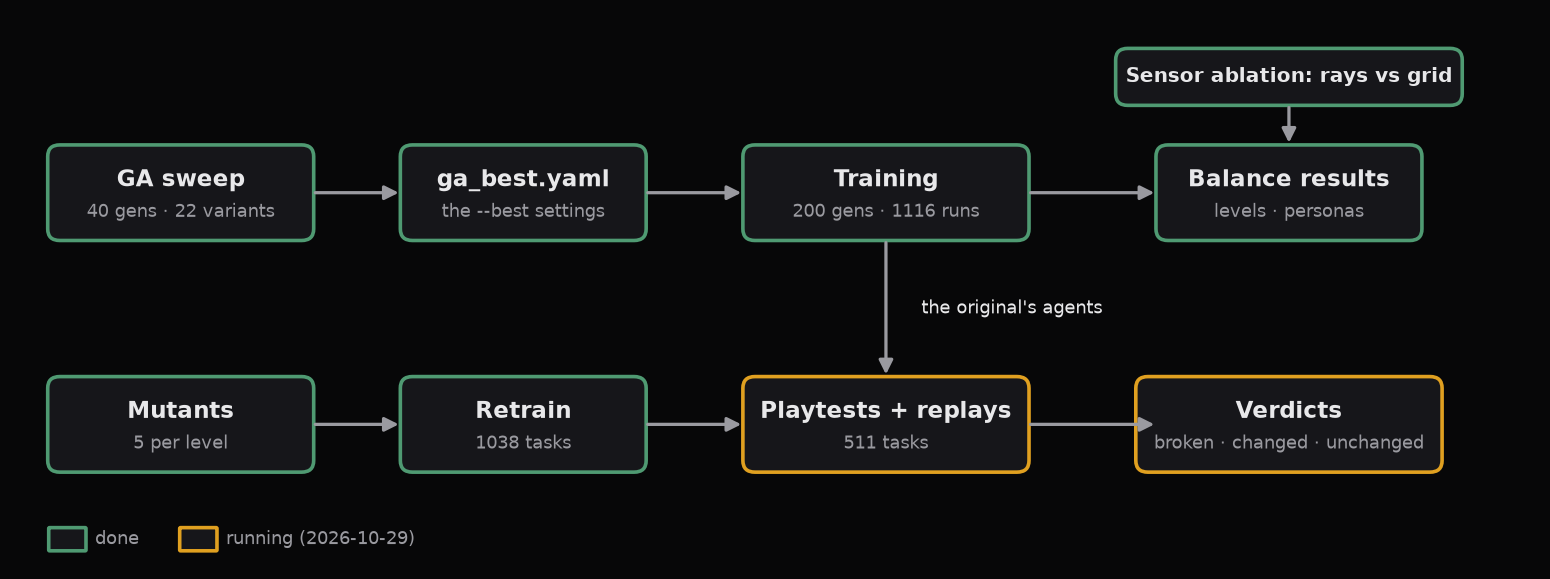
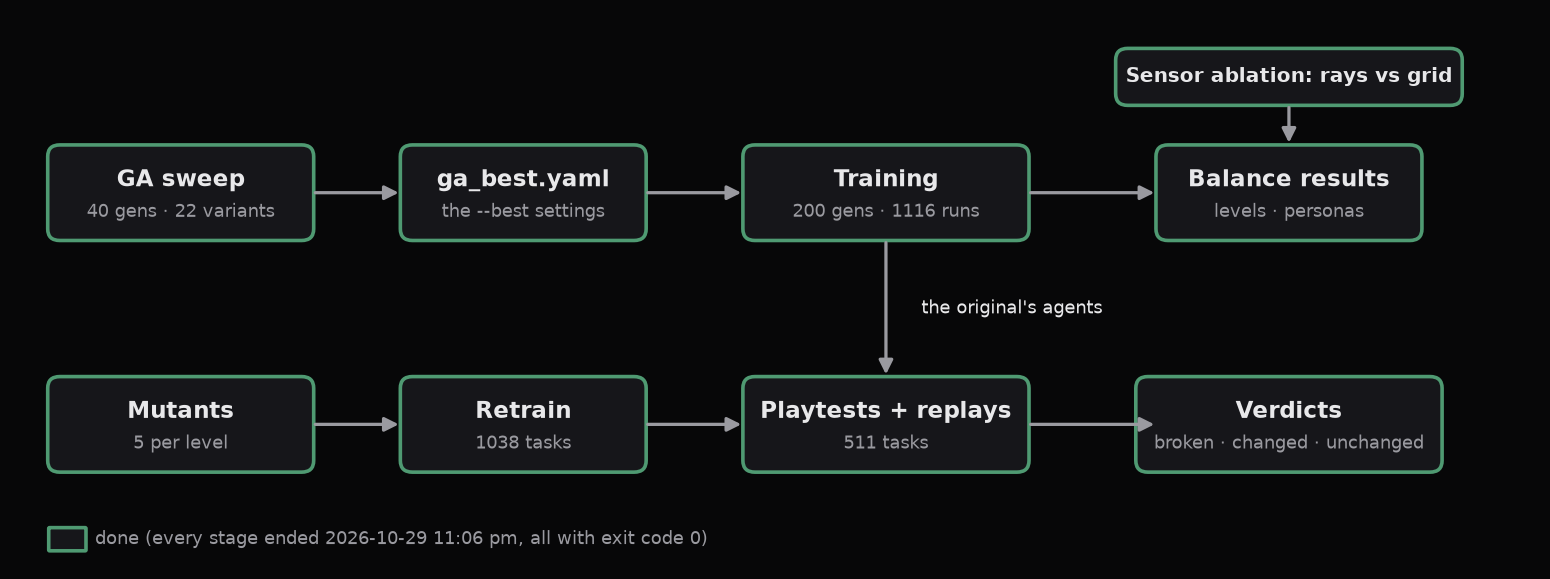
README: the Nibi run is done, with the AST replay verdicts (new figure fig_ast_verdicts.png)

diff --git a/README.md b/README.md
@@ -57,7 +57,8 @@ python menu.py        # train, watch, play, sweep, mutate, run the user study, o
 
 ## The experiment at a glance
 
-One pipeline run on the **Nibi** cluster (Digital Research Alliance of Canada), started 2026-10-28.
+One pipeline run on the **Nibi** cluster (Digital Research Alliance of Canada), started 2026-10-28,
+ended 2026-10-29 at 11:06 pm. Every stage ended with exit code 0.
 Seeds **1234, 2025, 31337**.
 
 <p align="center"><img src="docs/img/pipeline.png" alt="The experiment pipeline and the state of each stage" width="900"></p>
@@ -68,7 +69,7 @@ Seeds **1234, 2025, 31337**.
 | GA sweep: 22 variants per game and persona (40 generations) | 24 sweeps | ✅ done |
 | Sensor ablation: rays vs grid (40 generations) | 3 games × 6 personas | ✅ done |
 | Retraining on every mutant (200 generations) | 1038 tasks | ✅ done |
-| Playtests, replays, verdicts | 511 tasks + metrics | ⏳ running |
+| Playtests, replays, verdicts | 511 tasks + metrics | ✅ done |
 | Pilot user study | 5 participants | ✅ pilot done |
 
 ---
@@ -143,8 +144,17 @@ Retrained agents never finish a **sealed** level (0 of 666 runs) and still finis
 **Degrading** changes make levels harder. Mario's weaker jump acts as **breaking** on 1-1 (0/18).
 Bomberman's evaluation level is never solved, so it cannot be judged there.
 
-> ⏳ The **detector** is replay: the original's frozen agents play each mutant. Its verdicts
-> (broken / changed / unchanged) arrive when the `ast_play` and `final` stages end.
+<p align="center"><img src="docs/img/fig_ast_verdicts.png" width="900"></p>
+
+**Replay is the detector**: the original's frozen agents play each mutant, so there is no seed noise.
+
+- It flags **every breaking** mutant it can judge (28 of 28) and **46 of 55 degrading** ones (84%).
+- It flags **no neutral** mutant (0 of 27). The cosmetic copy replays **identically** (678 of 678 attempts).
+- Retraining with new seeds on a level that did not change raises a signal in **22 of 35** comparisons
+  (63%). That is why retraining is not the detector.
+
+"Not counted" means the original's agents never won there: 4 Bomberman levels (its evaluation level
+among them) and the full Mega Man stage. Per-level numbers are in "All result numbers" below.
 
 ---
 
@@ -258,7 +268,7 @@ no enemies or coins gives a plain player. Clumsy's mistakes are seeded, so a rep
 <details>
 <summary><b>🏭 The pipeline stages (Nibi, 2026-10-28)</b></summary>
 
-Started 2026-10-28 4:05 am, resumed 2026-10-29 12:37 pm; 3 CPU cores per task; code commit
+Started 2026-10-28 4:05 am, resumed 2026-10-29 12:37 pm, ended 2026-10-29 11:06 pm; 3 CPU cores per task; code commit
 `79fc29691` (branch `USER-STUDY+SPRITIFY`).
 
 | # | Stage | What it does | Tasks |
@@ -373,8 +383,38 @@ only majority winners.
 | Meat Boy (21) | 54/198 (27%) · 12.3% | 9/198 (5%) · 1.4% |
 | Bomberman (16) | 62/288 (22%) · 11.9% | 27/288 (9%) · 6.6% |
 
-**Retraining on mutants:** the numbers are in the figure above (Mario, Meat Boy, Bomberman final;
-Mega Man still being copied).
+**Retraining on mutants:** the numbers for Mario, Meat Boy and Bomberman are in the retrain figure
+above. Mega Man's retrains (wins of 120 on section 3): `s3-seal_route` 0, `s3-widen_gap` 0, `s3-off_route`
+36; `m-jump_velocity_down` is in the "agents retrained on it" column below.
+
+**AST verdicts on the evaluation levels** (wins of 18 attempts; Mega Man: of 120, on section 3, Ledges)
+
+| Variant | Mario 1-1 | Meat Boy 2 | Bomberman 12 | Mega Man section 3 |
+|---|---|---|---|---|
+| original (`base`; Mega Man `base-retrained`) | 15/18 | 15/18 | 0/18 | 36/120 |
+| `seal_route`, replay | 0/18 **broken** | 0/18 **broken** | not counted | 0/120 **broken** |
+| `widen_gap` / `add_enemy`, replay | 11/18 **changed** | 2/18 **changed** | not counted | 1/120 **changed** |
+| `jump_velocity_down` / `fuse_down`, replay | 0/18 **broken** | 6/18 **changed** | not counted | see below |
+| `off_route`, replay | 15/18 unchanged | 15/18 unchanged | not counted | 36/120 unchanged |
+| `cosmetic_tile`, replay | 18/18 identical | 18/18 identical | 18/18 identical | 120/120 identical |
+
+**Mega Man `m-jump_velocity_down`** (jump ×0.85 on the whole game), by section (wins of 120)
+
+| Section | original | agents retrained on it | replay | replay verdict |
+|---|---|---|---|---|
+| 1 Street | 49 | 37 | 1 | changed |
+| 2 Climb | 97 | 0 | 0 | **broken** |
+| 3 Ledges | 36 | 30 | 9 | changed |
+| 4 Shaft | 55 | 0 | 0 | **broken** |
+| 5 Rooftop | 120 | 119 | 120 | unchanged |
+| 6 Descent | 105 | 99 | 78 | changed |
+| 7 Corridor | 120 | 120 | 120 | unchanged |
+| 8 Boss | 80 | 76 | 83 | unchanged |
+| full stage | 0 | 0 | 0 | not counted |
+
+**False alarms** (`base-reseeded` against the original, 35 counted comparisons): completion lost 2,
+win rate changed 4, death cluster moved 17, top cause changed 9; any signal 22 (63%); completion or
+Fisher only ("strict") 6 (17%); win rate outside the original's seed spread 4 of 27.
 </details>
 
 <details>
